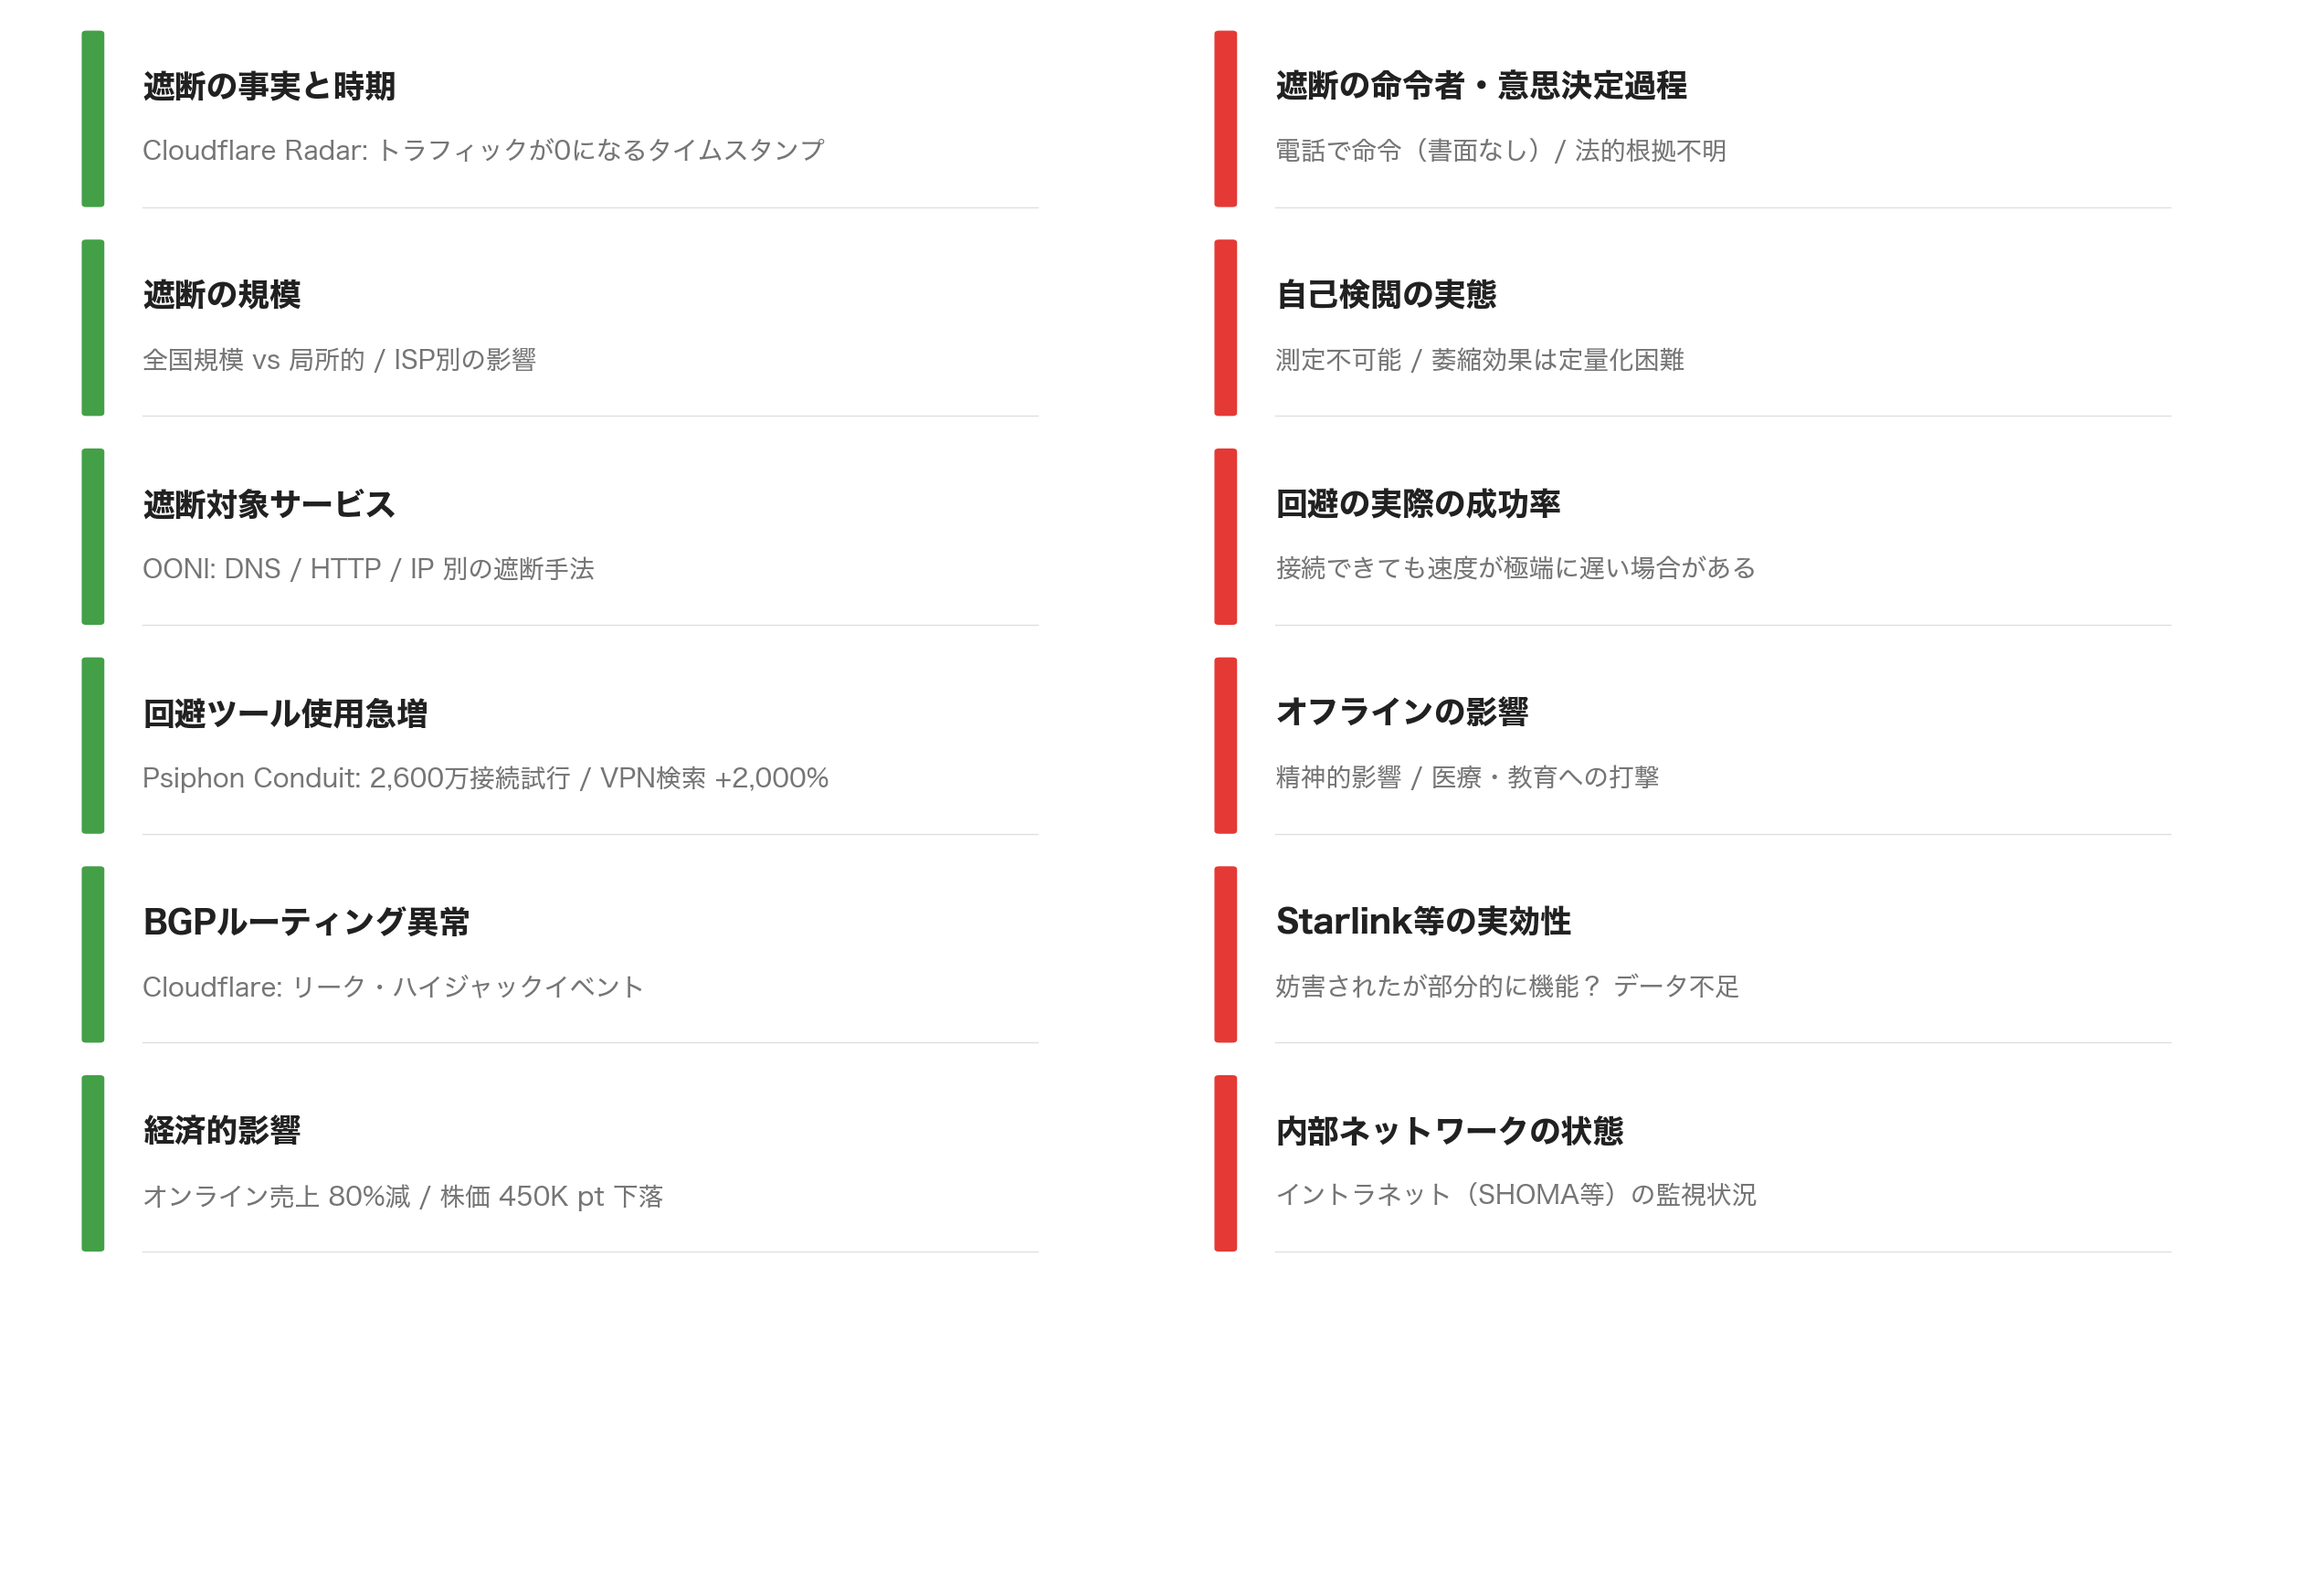
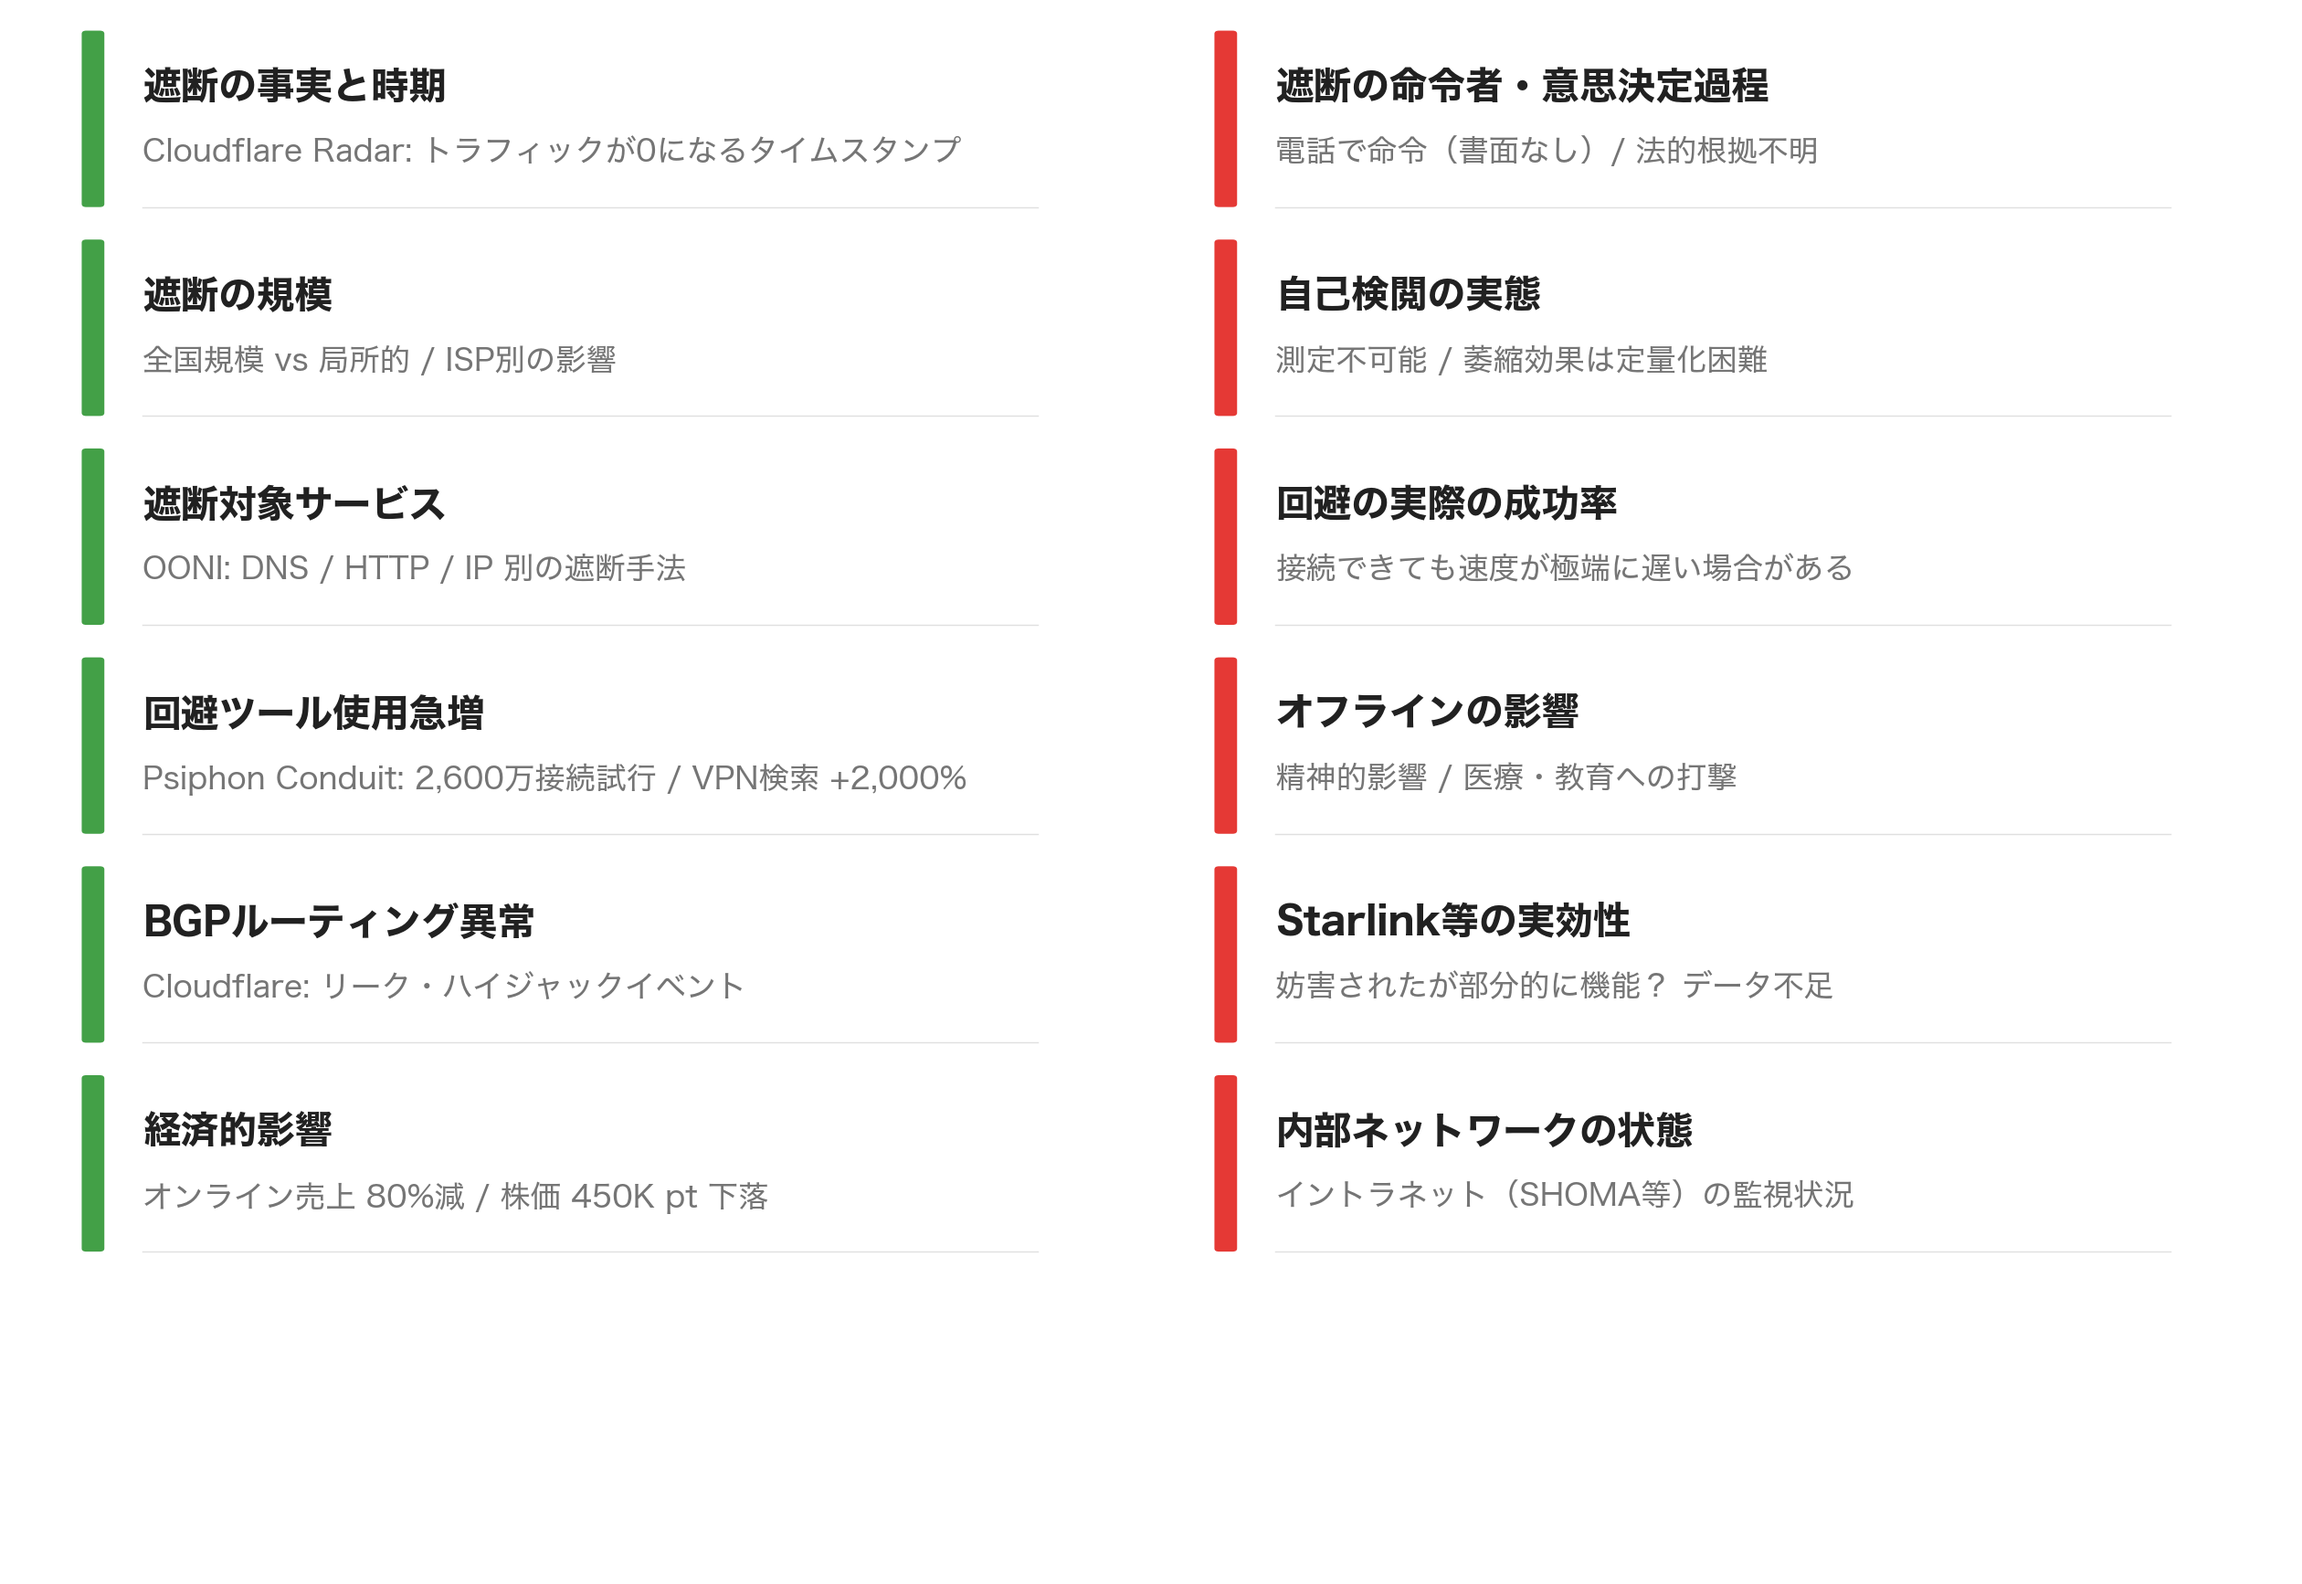
style: switch to BIZ UDPGothic font, fix venue name
- Replace Noto Sans CJK JP with BIZ UDPGothic (UD font)
- Add biz-ud-gothic to Nix build inputs
- Rename KEDI → KdEi in READMEs
- Update CLAUDE.md font list
- Refine poster content and update figure

diff --git a/README.md b/README.md
@@ -4,4 +4,4 @@ Slides & posters for my talks, built with [Typst](https://typst.app/) and [Nix](
 
 ###### 2026
 
-- `ja` [市民科学と分散技術が支える、開かれたインターネット](./2026-03-28) - KEDI UTokyo
+- `ja` [市民科学と分散技術が支える、開かれたインターネット](./2026-03-28) - KdEi UTokyo

diff --git a/2026-03-28/README.md b/2026-03-28/README.md
@@ -2,7 +2,7 @@
 
 2026/03/28
 
-KEDI UTokyo
+KdEi UTokyo
 
 ## References
 
